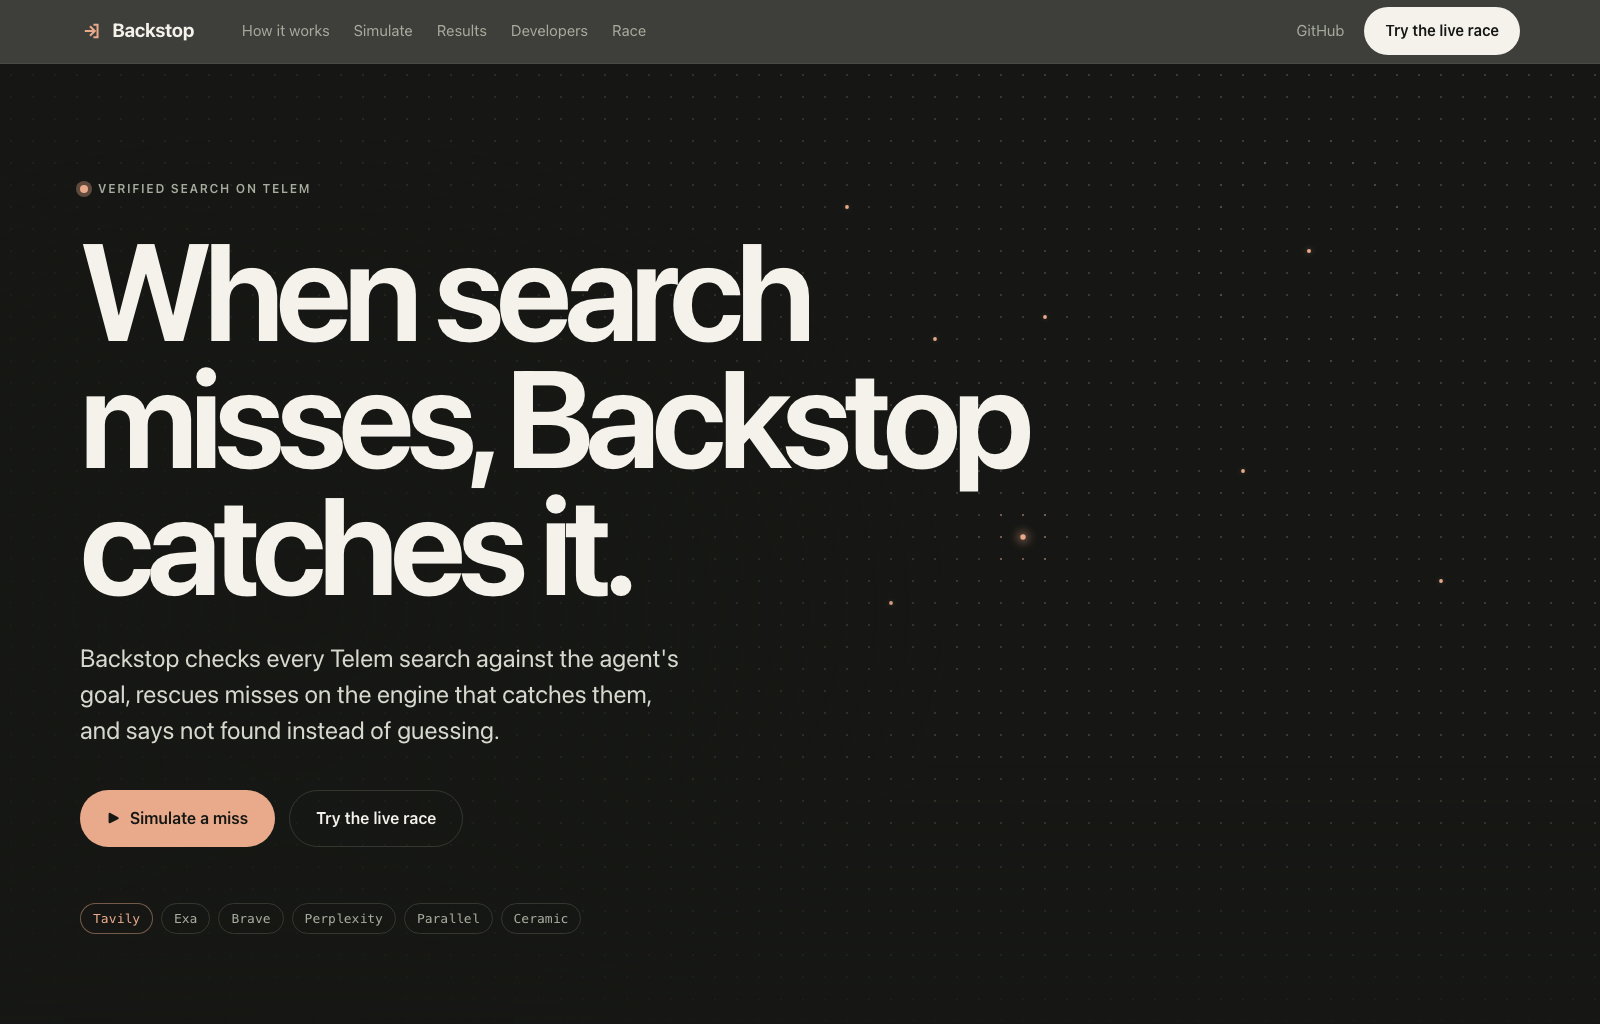
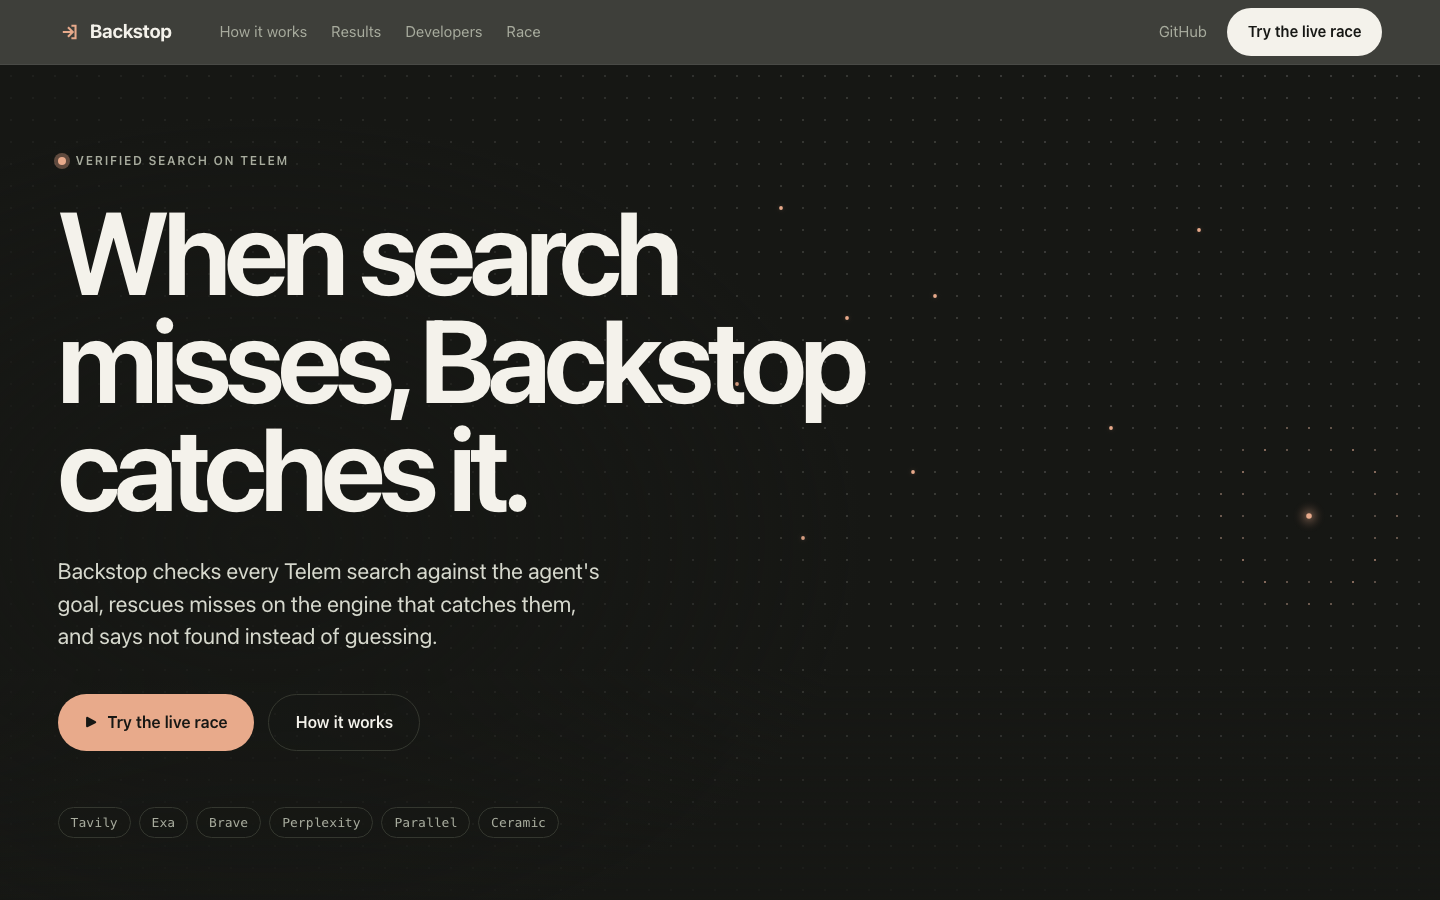
S7 fix: fresh full-page and hero screenshots, drop Simulate screenshots, HANDOFF entry

diff --git a/HANDOFF.md b/HANDOFF.md
@@ -127,3 +127,10 @@ PRE-REGISTERED 2026-11-14 20:41:56 UTC: primary Second Opinion configuration is 
 - Built: so/claims.py `check_memo(text)` extracts at most 12 atomic claims with memo spans (one CHECKER_MODEL call; its 399-token checker cap is raised to 2,000 for this call only, through a ContextVar), verifies every claim in ONE batched Telem search on FIRST_ENGINE (so/telem_batch.py `search_batch`: list query, one session, context "backstop memo check", metadata with claim ids, mapped back by batch_index, reusing telem_client's cache, budget, retry and ledger fail-open), then per claim: verify (so/prompts/claim_verify.md) on the first pass, an include_domains retry (sec.gov, investor relations hosts seen, major business press) for numbers and events, the Backstop cascade (`so.second_opinion.search`) and a Tavily Extract page read. Verdicts are VERIFIED, CONTRADICTED or NOT_FOUND; URLs come only from the sources shown, and a contradiction needs a URL, a quote and confidence of at least 0.6. Limits: 4,000 chars, $0.40, 90 s, 6 claims at once, fail open per claim, `memo-` event logs. POST /v1/memo-check (API key, rate limit, spend cap, metered as one request), POST /memo-check for the page (S8's DemoGuard: same demo code, same per-IP hourly limit, a memo holds one race slot; live checks skip the cache), GET /memo/recordings. "Check a memo" section after the live race (ui/memo.js, memo-view.js, memo.css, ui/fixtures/memos.json): example chips, in-place highlights with verdict words, side panel, summary, counters, session id with copy, Export report; falls back to demo/memo_examples/ when live is off. Live runs: NVIDIA 7/1/1 at $0.062, Microsoft 6/1/1 at $0.057, Airbnb 6/1/1 at $0.063, each planted wrong number contradicted.
 - Run: `pytest -q tests/s10`, `node --test tests/s10/test_memo_ui.mjs`, `python tests/s10/live_smoke.py [microsoft|nvidia|airbnb] [--record]` (live, $0.40 cap), `BACKSTOP_LIVE_RACE=true uvicorn server.app:app --port 8000` then /#memo (`/?memo=nvidia#memo` opens a recorded check). Screenshot: demo/screenshots/memo_check.png.
 - Not done / differences: Telem's console URL for a session is not documented, so the page shows the session id with a copy button instead of a link. `sessions.results()` in telem-sdk 0.4.0 returns session_id, query, goal, context and previous_preprocessor_results (no `results` field), so it is not used. Batch size limits are undocumented (12 queries worked). The verifier can vary between runs on borderline claims (one run contradicted Project Halcyon at 0.3 confidence before the 0.6 floor was added). No nav link was added to the header (S7 owns it).
+
+## S7 fix: website fixes from Shikhar's review
+- Live races are live: server/races.py runs each race task inside so.config.bypass_cache() (a ContextVar read by read_cache/write_cache), so Telem search/fetch, Tavily Extract and model calls are fresh in a race; the eval path still caches (tests/s8/test_live_cache.py). Live columns time the run on the page clock (start to final event) and count only this run's spend; replays keep recorded timing. Race counters are now Engine calls, Search cost (engines, page reads, checker) and Total cost (adds the agent model). A note under the race comes from out/results.json.
+- Simulate a miss removed (section, nav, hero button, simulate.js, sim-view.js, scenarios.json, the single-engine ghost logs, its screenshots); shared labels live in ui/labels.js.
+- How it works is a product flow: Agent asks, Telem searches (routed first engine), Checker (fast decision model, then the LLM checker when not confident; verdict chips), Rescue on a miss (next engine from the rescue table, Tavily Extract, query rewrite), Answer (Verified or Not found). Plain connectors, no numbers; the Telem default lane and the answer-key line are gone. The bottom strip stays.
+- Results lead with total cost and median time, accuracy shows "Backstop = Telem default" with counts; the coverage row and frontier chart are replaced by correct final answers vs total cost per question. All from out/results.json, "Results pending" without it.
+- Developers curl is checked against POST /v1/search by tests/s7/test_site.py. Screenshot: demo/screenshots/full-page.png.
